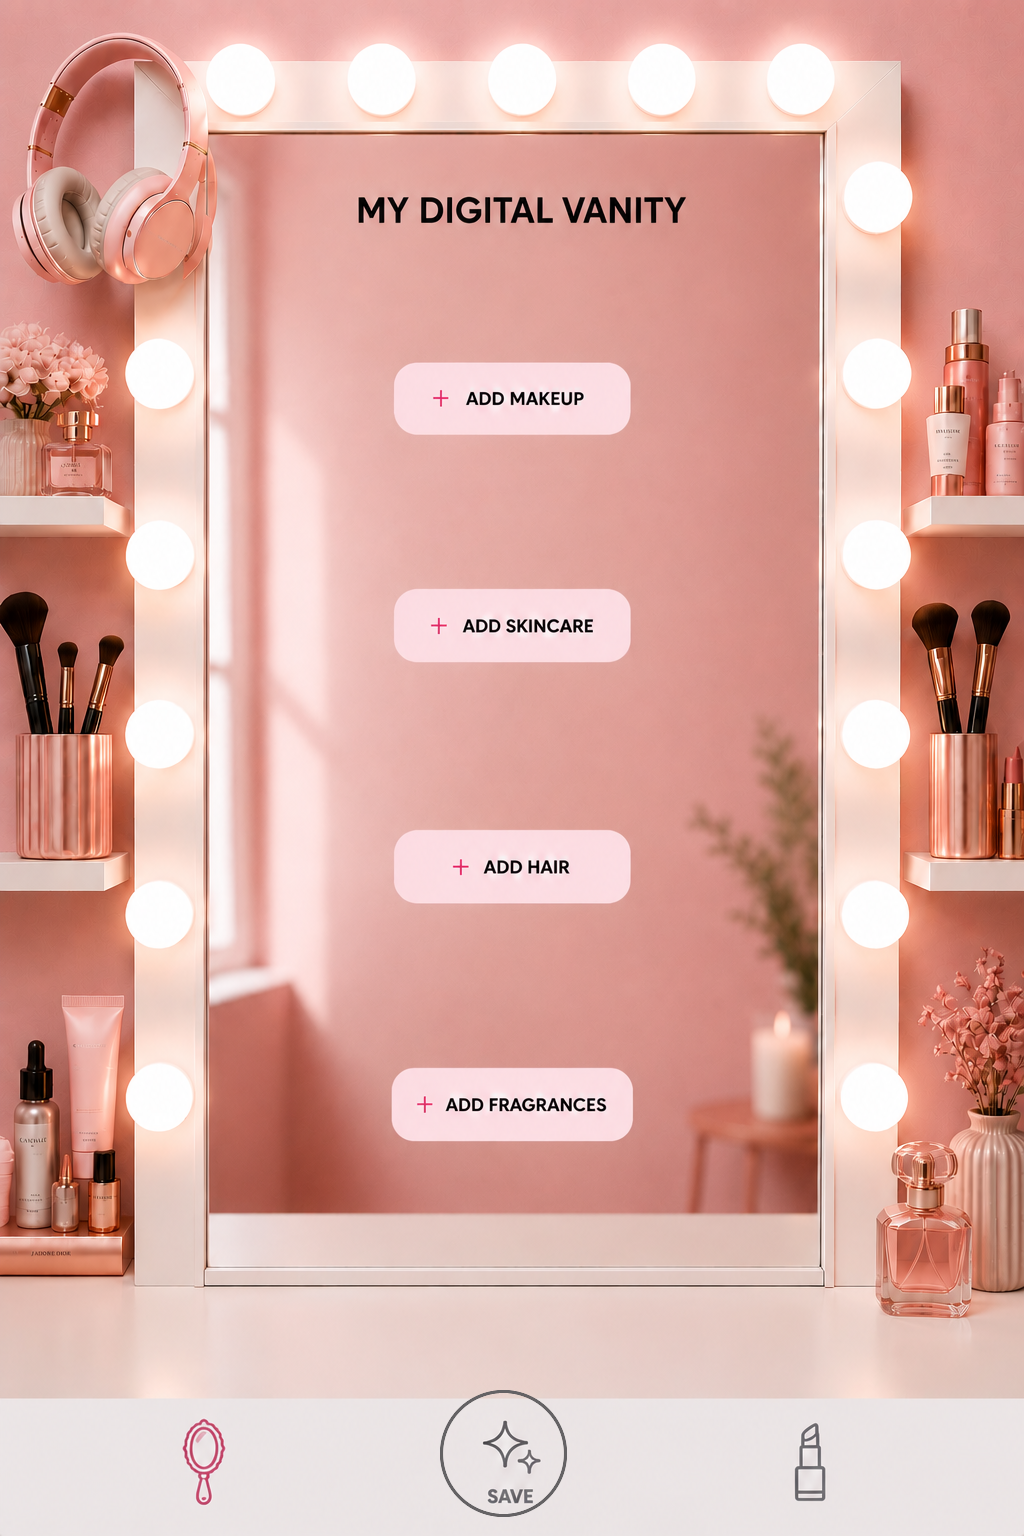
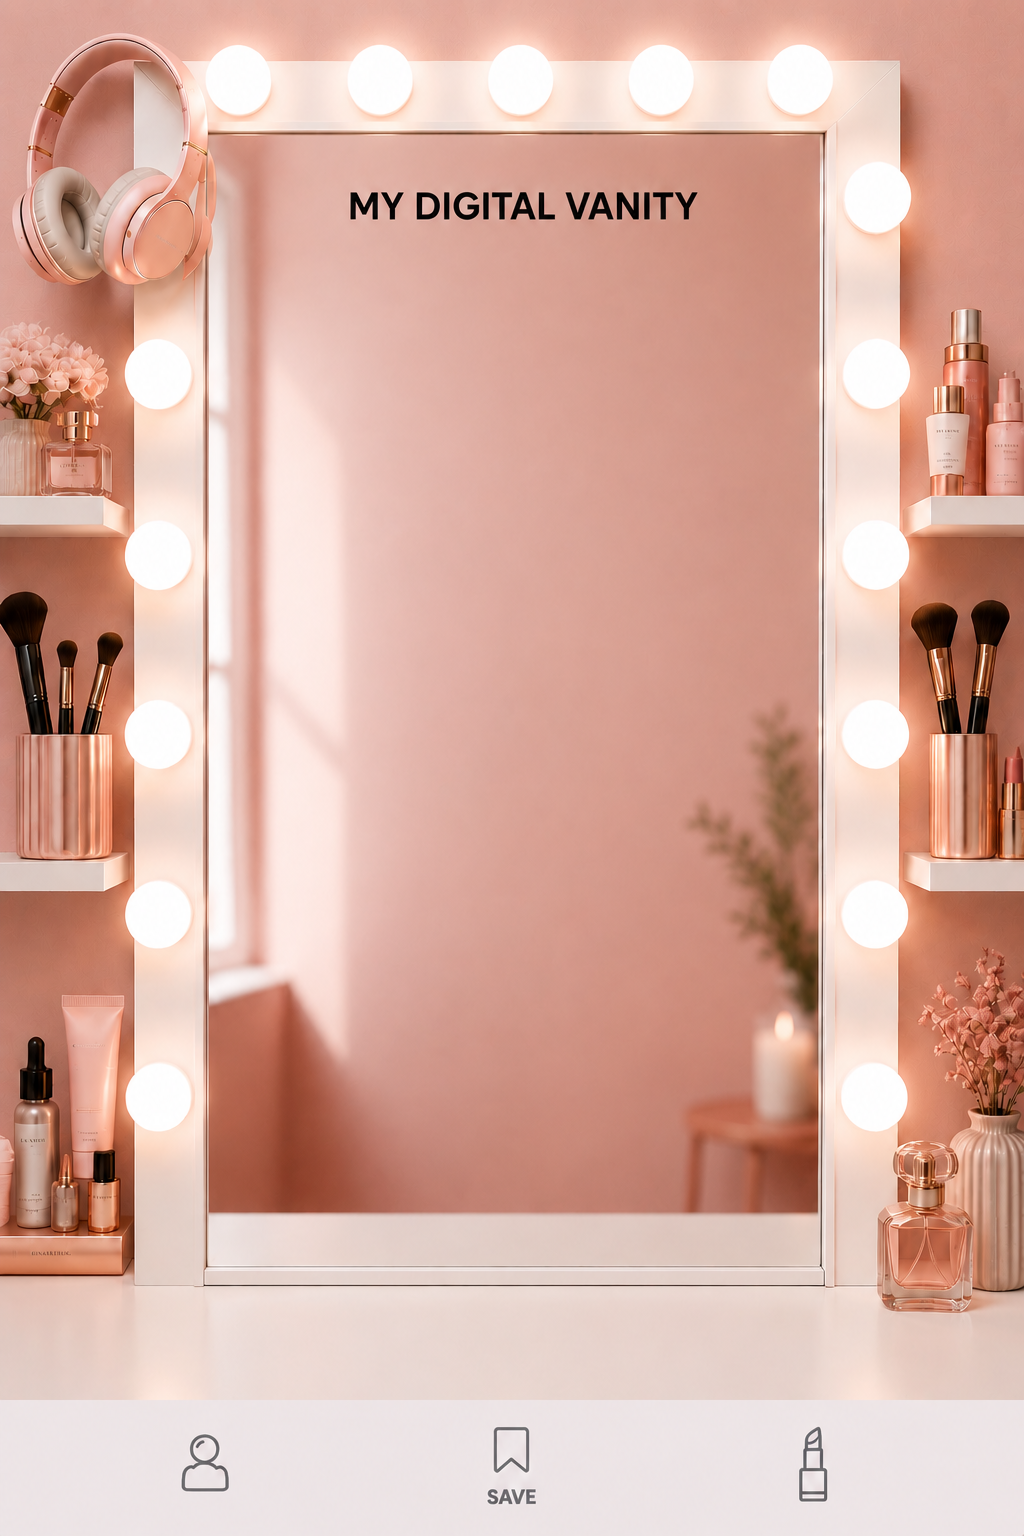
Update vanity background image and fix wardrobe page styling
Replit-Commit-Author: Agent

diff --git a/artifacts/outfit-generator/src/pages/wardrobe.tsx b/artifacts/outfit-generator/src/pages/wardrobe.tsx
@@ -221,7 +221,7 @@ export default function WardrobePage() {
     >
       {/* ── Background image ── */}
       <img
-        src="/vanity-bg.png?v=10"
+        src="/vanity-bg.png?v=11"
         alt="My Digital Vanity"
         style={{
           position: "absolute",